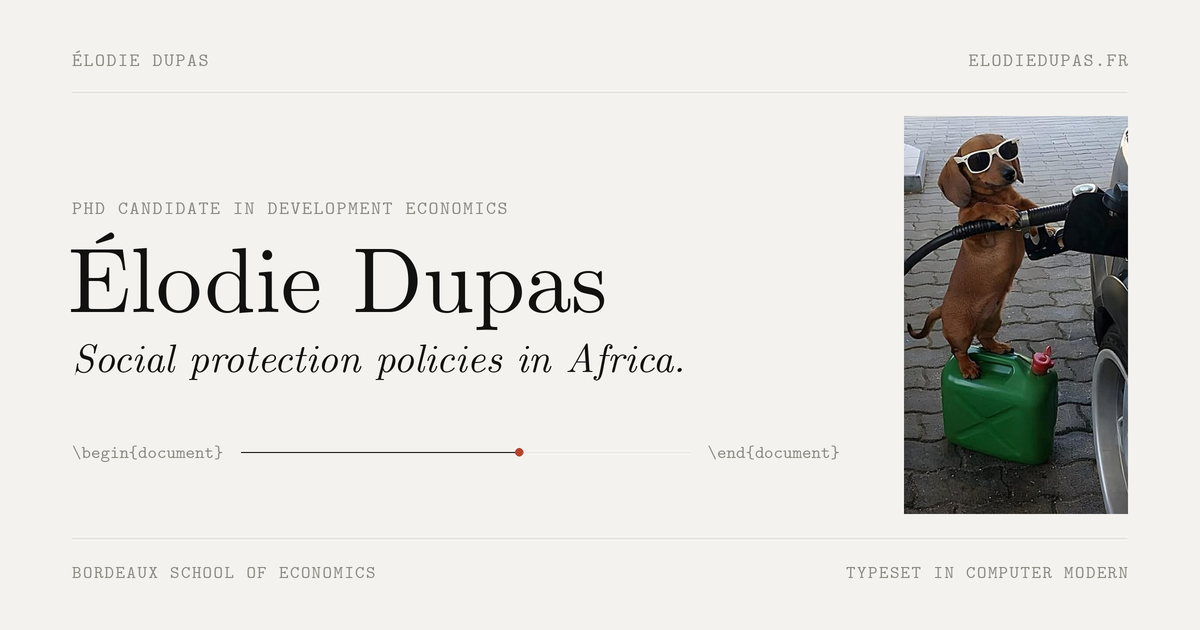
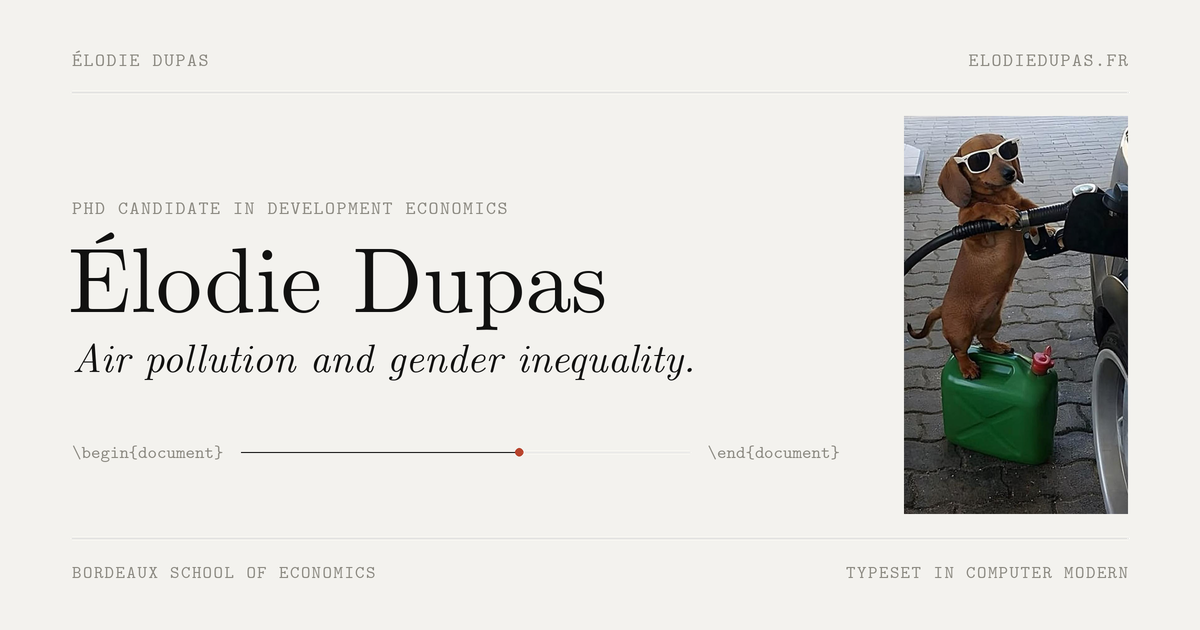
SEO : sujet de thèse corrigé (pollution de l'air et genre)
Description, Open Graph, JSON-LD, légende visible, llms.txt et images
de partage mis à jour d'après son annonce de début de thèse ; ajout de
« Bordeaux Sciences Économiques » comme nom alternatif du laboratoire.

Changed region(s): [[0.0617, 0.5429, 0.5858, 0.6032]]

diff --git a/index.html b/index.html
@@ -4,7 +4,7 @@
   <meta charset="utf-8">
   <meta name="viewport" content="width=device-width, initial-scale=1, viewport-fit=cover">
   <title>Élodie Dupas · Doctorante en économie du développement</title>
-  <meta name="description" content="Élodie Dupas, doctorante en économie du développement à la Bordeaux School of Economics. Recherches sur les politiques de protection sociale en Afrique.">
+  <meta name="description" content="Doctorante en économie du développement à la Bordeaux School of Economics. Thèse : pollution de l'air et inégalités femmes-hommes dans les pays en développement.">
   <meta name="author" content="Élodie Dupas">
   <meta name="robots" content="index, follow, max-image-preview:large, max-snippet:-1, max-video-preview:-1">
   <link rel="canonical" href="https://elodiedupas.fr/">
@@ -15,11 +15,11 @@
   <meta property="og:type" content="profile">
   <meta property="og:site_name" content="Élodie Dupas">
   <meta property="og:title" content="Élodie Dupas · Doctorante en économie du développement">
-  <meta property="og:description" content="Doctorante à la Bordeaux School of Economics. Recherches sur les politiques de protection sociale en Afrique.">
+  <meta property="og:description" content="Doctorante à la Bordeaux School of Economics. Thèse sur les effets de la pollution de l'air dans les pays à revenu faible et intermédiaire, et leur répartition entre femmes et hommes.">
   <meta property="og:url" content="https://elodiedupas.fr/">
   <meta property="og:locale" content="fr_FR">
   <meta property="og:locale:alternate" content="en_GB">
-  <meta property="og:image" content="https://elodiedupas.fr/og-fr.png">
+  <meta property="og:image" content="https://elodiedupas.fr/og-fr.png?v=2">
   <meta property="og:image:type" content="image/png">
   <meta property="og:image:width" content="1200">
   <meta property="og:image:height" content="630">
@@ -28,8 +28,8 @@
   <meta property="profile:last_name" content="Dupas">
   <meta name="twitter:card" content="summary_large_image">
   <meta name="twitter:title" content="Élodie Dupas · Doctorante en économie du développement">
-  <meta name="twitter:description" content="Doctorante à la Bordeaux School of Economics. Recherches sur les politiques de protection sociale en Afrique.">
-  <meta name="twitter:image" content="https://elodiedupas.fr/og-fr.png">
+  <meta name="twitter:description" content="Doctorante à la Bordeaux School of Economics. Thèse sur les effets de la pollution de l'air dans les pays à revenu faible et intermédiaire, et leur répartition entre femmes et hommes.">
+  <meta name="twitter:image" content="https://elodiedupas.fr/og-fr.png?v=2">
   <meta name="twitter:image:alt" content="Élodie Dupas, doctorante en économie du développement, Bordeaux School of Economics">
 
   <meta name="theme-color" content="#f3f2ee" media="(prefers-color-scheme: light)">
@@ -72,10 +72,10 @@
         "affiliation": {
           "@type": "ResearchOrganization",
           "name": "Bordeaux School of Economics",
-          "alternateName": "BSE",
+          "alternateName": ["BSE", "Bordeaux Sciences Économiques"],
           "url": "https://www.bse.u-bordeaux.fr/"
         },
-        "knowsAbout": ["Économie du développement", "Protection sociale", "Évaluation des politiques publiques", "Afrique"],
+        "knowsAbout": ["Économie du développement", "Pollution de l'air", "Économie de l'environnement", "Genre", "Pays à revenu faible et intermédiaire"],
         "email": "mailto:dupas.elodie@outlook.com",
         "sameAs": ["https://www.linkedin.com/in/elodie-dupas-15a38a14b/"]
       }
@@ -638,7 +638,7 @@
 
         <div class="side right reveal">
           <p class="label muted">§ 0 Thèse</p>
-          <p class="caption">Politiques de protection sociale en Afrique.</p>
+          <p class="caption">Pollution de l’air et inégalités femmes-hommes.</p>
         </div>
       </div>
 

diff --git a/en/index.html b/en/index.html
@@ -4,7 +4,7 @@
   <meta charset="utf-8">
   <meta name="viewport" content="width=device-width, initial-scale=1, viewport-fit=cover">
   <title>Élodie Dupas · PhD Candidate in Development Economics</title>
-  <meta name="description" content="Élodie Dupas, PhD candidate in development economics at the Bordeaux School of Economics. Research on social protection policies in Africa.">
+  <meta name="description" content="PhD candidate in development economics at the Bordeaux School of Economics. Research on air pollution and gender in low- and middle-income countries.">
   <meta name="author" content="Élodie Dupas">
   <meta name="robots" content="index, follow, max-image-preview:large, max-snippet:-1, max-video-preview:-1">
   <link rel="canonical" href="https://elodiedupas.fr/en">
@@ -15,11 +15,11 @@
   <meta property="og:type" content="profile">
   <meta property="og:site_name" content="Élodie Dupas">
   <meta property="og:title" content="Élodie Dupas · PhD Candidate in Development Economics">
-  <meta property="og:description" content="PhD candidate at the Bordeaux School of Economics. Research on social protection policies in Africa.">
+  <meta property="og:description" content="PhD candidate at the Bordeaux School of Economics. Research on the effects of air pollution in low- and middle-income countries and how they differ between women and men.">
   <meta property="og:url" content="https://elodiedupas.fr/en">
   <meta property="og:locale" content="en_GB">
   <meta property="og:locale:alternate" content="fr_FR">
-  <meta property="og:image" content="https://elodiedupas.fr/og-en.png">
+  <meta property="og:image" content="https://elodiedupas.fr/og-en.png?v=2">
   <meta property="og:image:type" content="image/png">
   <meta property="og:image:width" content="1200">
   <meta property="og:image:height" content="630">
@@ -28,8 +28,8 @@
   <meta property="profile:last_name" content="Dupas">
   <meta name="twitter:card" content="summary_large_image">
   <meta name="twitter:title" content="Élodie Dupas · PhD Candidate in Development Economics">
-  <meta name="twitter:description" content="PhD candidate at the Bordeaux School of Economics. Research on social protection policies in Africa.">
-  <meta name="twitter:image" content="https://elodiedupas.fr/og-en.png">
+  <meta name="twitter:description" content="PhD candidate at the Bordeaux School of Economics. Research on the effects of air pollution in low- and middle-income countries and how they differ between women and men.">
+  <meta name="twitter:image" content="https://elodiedupas.fr/og-en.png?v=2">
   <meta name="twitter:image:alt" content="Élodie Dupas, PhD candidate in development economics, Bordeaux School of Economics">
 
   <meta name="theme-color" content="#f3f2ee" media="(prefers-color-scheme: light)">
@@ -72,10 +72,10 @@
         "affiliation": {
           "@type": "ResearchOrganization",
           "name": "Bordeaux School of Economics",
-          "alternateName": "BSE",
+          "alternateName": ["BSE", "Bordeaux Sciences Économiques"],
           "url": "https://www.bse.u-bordeaux.fr/"
         },
-        "knowsAbout": ["Development economics", "Social protection", "Public policy evaluation", "Africa"],
+        "knowsAbout": ["Development economics", "Air pollution", "Environmental economics", "Gender", "Low- and middle-income countries"],
         "email": "mailto:dupas.elodie@outlook.com",
         "sameAs": ["https://www.linkedin.com/in/elodie-dupas-15a38a14b/"]
       }
@@ -638,7 +638,7 @@
 
         <div class="side right reveal">
           <p class="label muted">§ 0 Thesis</p>
-          <p class="caption">Social protection policies in Africa.</p>
+          <p class="caption">Air pollution and gender inequality.</p>
         </div>
       </div>
 

diff --git a/tools/build-en.py b/tools/build-en.py
@@ -17,15 +17,15 @@ TITLE_EN = "Élodie Dupas · PhD Candidate in Development Economics"
 PAIRS = [
     ('<html lang="fr">', '<html lang="en">'),
     (TITLE_FR, TITLE_EN),
-    ('content="Élodie Dupas, doctorante en économie du développement à la Bordeaux School of Economics. Recherches sur les politiques de protection sociale en Afrique."',
-     'content="Élodie Dupas, PhD candidate in development economics at the Bordeaux School of Economics. Research on social protection policies in Africa."'),
+    ('content="Doctorante en économie du développement à la Bordeaux School of Economics. Thèse : pollution de l\'air et inégalités femmes-hommes dans les pays en développement."',
+     'content="PhD candidate in development economics at the Bordeaux School of Economics. Research on air pollution and gender in low- and middle-income countries."'),
     ('<link rel="canonical" href="https://elodiedupas.fr/">', '<link rel="canonical" href="https://elodiedupas.fr/en">'),
-    ('content="Doctorante à la Bordeaux School of Economics. Recherches sur les politiques de protection sociale en Afrique."',
-     'content="PhD candidate at the Bordeaux School of Economics. Research on social protection policies in Africa."'),
+    ('content="Doctorante à la Bordeaux School of Economics. Thèse sur les effets de la pollution de l\'air dans les pays à revenu faible et intermédiaire, et leur répartition entre femmes et hommes."',
+     'content="PhD candidate at the Bordeaux School of Economics. Research on the effects of air pollution in low- and middle-income countries and how they differ between women and men."'),
     ('<meta property="og:url" content="https://elodiedupas.fr/">', '<meta property="og:url" content="https://elodiedupas.fr/en">'),
     ('<meta property="og:locale" content="fr_FR">\n  <meta property="og:locale:alternate" content="en_GB">',
      '<meta property="og:locale" content="en_GB">\n  <meta property="og:locale:alternate" content="fr_FR">'),
-    ('https://elodiedupas.fr/og-fr.png', 'https://elodiedupas.fr/og-en.png'),
+    ('https://elodiedupas.fr/og-fr.png?v=2', 'https://elodiedupas.fr/og-en.png?v=2'),
     ('content="Élodie Dupas, doctorante en économie du développement, Bordeaux School of Economics"',
      'content="Élodie Dupas, PhD candidate in development economics, Bordeaux School of Economics"'),
     # JSON-LD
@@ -33,8 +33,8 @@ PAIRS = [
      '"@id": "https://elodiedupas.fr/en#profilepage",\n        "url": "https://elodiedupas.fr/en",'),
     ('"inLanguage": "fr",', '"inLanguage": "en",'),
     ('"jobTitle": "Doctorante en économie du développement"', '"jobTitle": "PhD Candidate in Development Economics"'),
-    ('"knowsAbout": ["Économie du développement", "Protection sociale", "Évaluation des politiques publiques", "Afrique"]',
-     '"knowsAbout": ["Development economics", "Social protection", "Public policy evaluation", "Africa"]'),
+    ('"knowsAbout": ["Économie du développement", "Pollution de l\'air", "Économie de l\'environnement", "Genre", "Pays à revenu faible et intermédiaire"]',
+     '"knowsAbout": ["Development economics", "Air pollution", "Environmental economics", "Gender", "Low- and middle-income countries"]'),
     # Contenu visible
     ('Doctorante en économie du développement · <abbr', 'PhD candidate in development economics · <abbr'),
     ('aria-label="Copier l\'adresse e-mail"', 'aria-label="Copy email address"'),
@@ -44,7 +44,7 @@ PAIRS = [
     ('alt="Un teckel en lunettes de soleil, debout sur un jerrican, qui fait le plein à la pompe."',
      'alt="A dachshund in sunglasses, standing on a jerrycan, filling up at a petrol pump."'),
     ('<p class="label muted">§ 0 Thèse</p>', '<p class="label muted">§ 0 Thesis</p>'),
-    ('<p class="caption">Politiques de protection sociale en Afrique.</p>', '<p class="caption">Social protection policies in Africa.</p>'),
+    ('<p class="caption">Pollution de l’air et inégalités femmes-hommes.</p>', '<p class="caption">Air pollution and gender inequality.</p>'),
     ('<span>Page en cours de remplissage</span>', '<span>Page filling up</span>'),
     ('<a class="lang" href="/en" hreflang="en" lang="en">English</a>', '<a class="lang" href="/" hreflang="fr" lang="fr">Français</a>'),
     ('<span class="label muted mid">Composé en Computer Modern</span>', '<span class="label muted mid">Typeset in Computer Modern</span>'),
